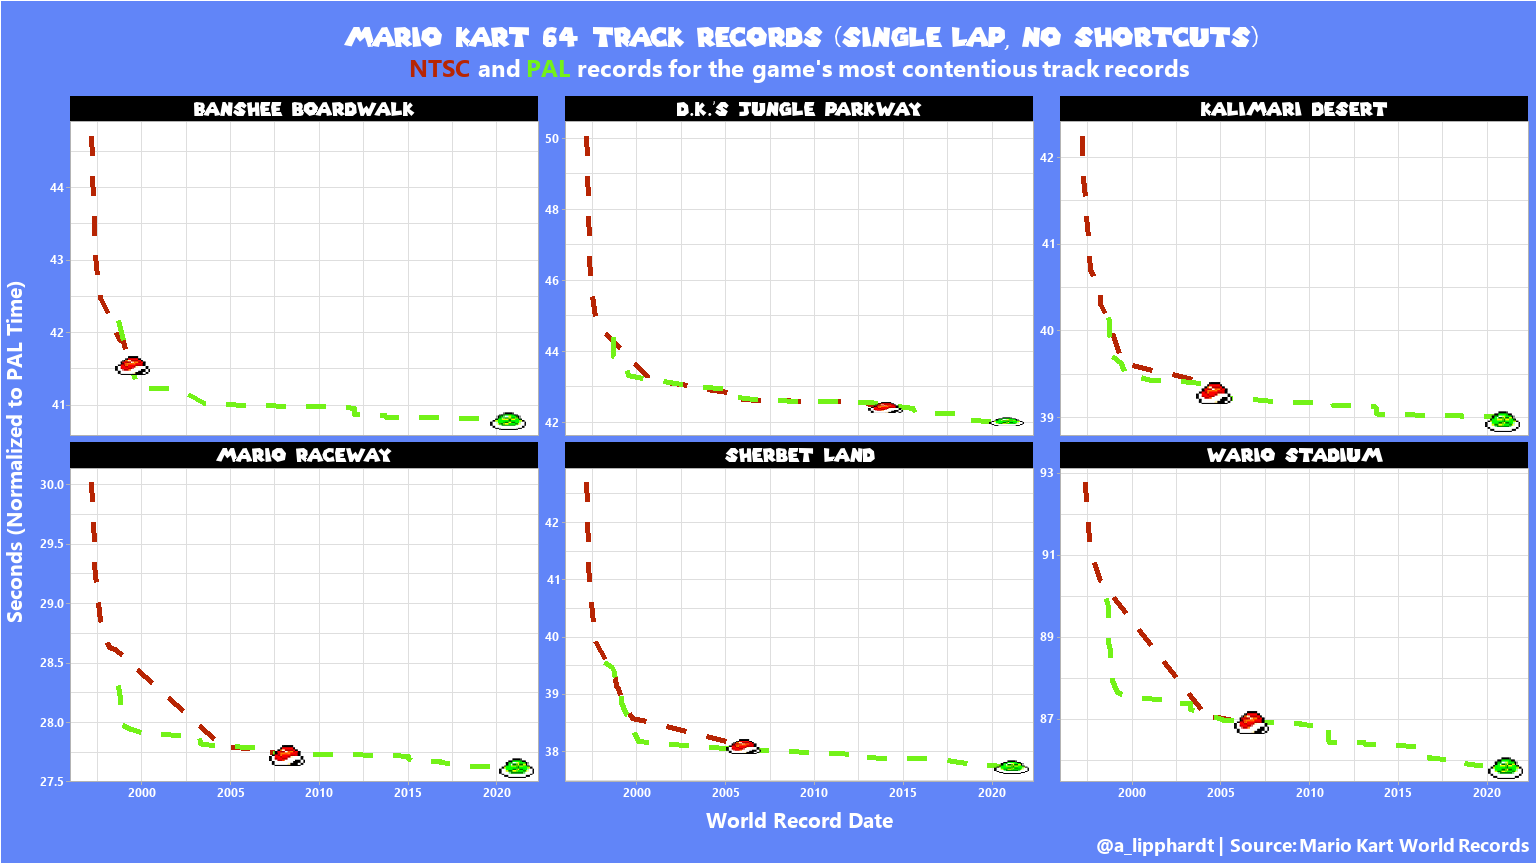
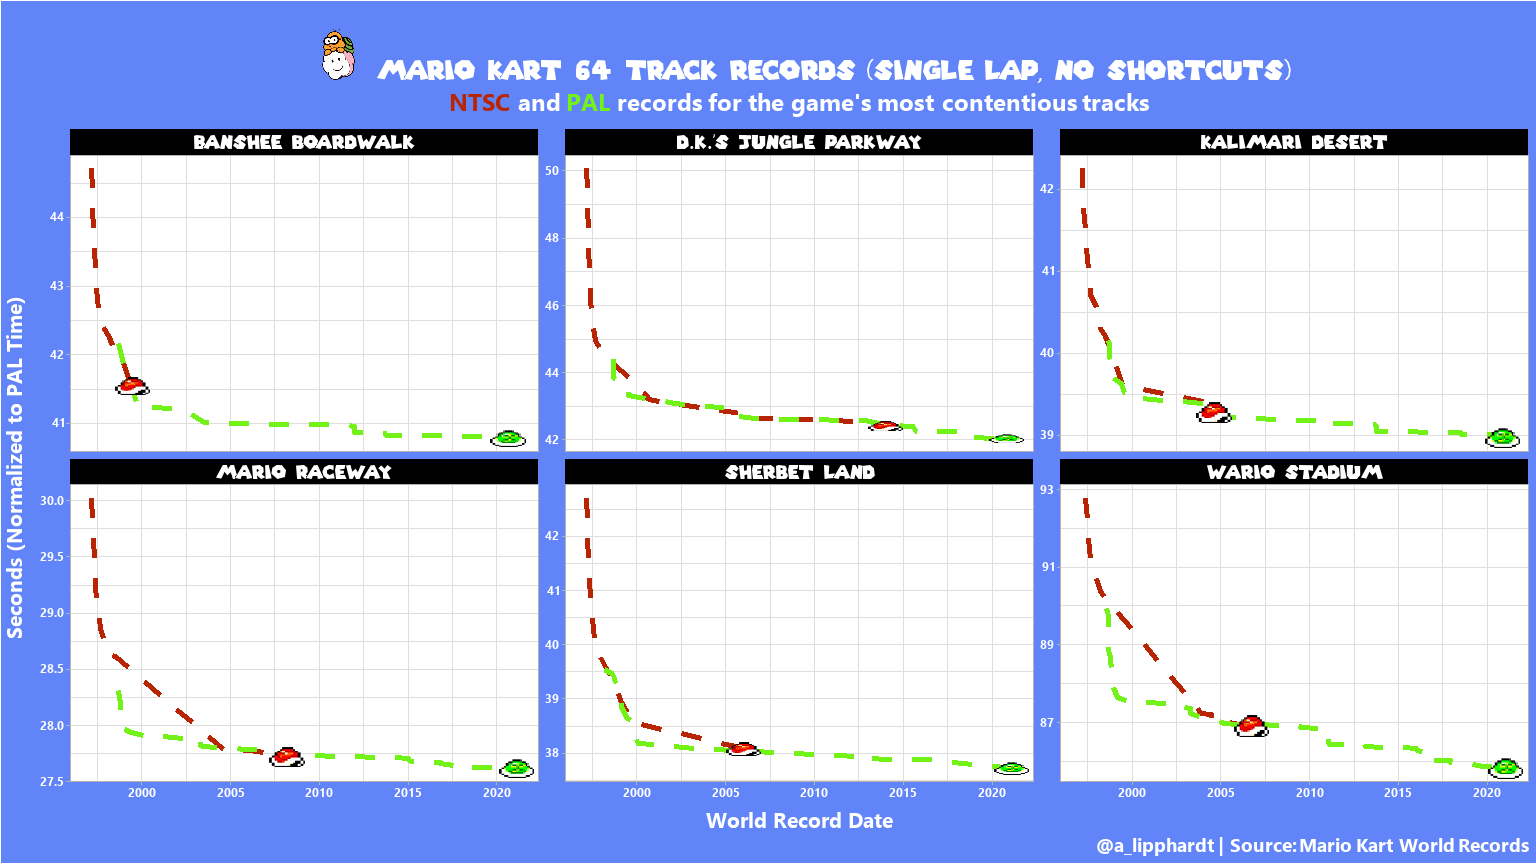
Added Lakitu

diff --git a/mario-kart-world-records/README.md b/mario-kart-world-records/README.md
@@ -175,8 +175,8 @@ mario_plot = select_records %>%
 
   scale_color_manual(values=c(burnt_red, lawn_green)) +
   
-  labs(title = "Mario Kart 64 Track Records (Single Lap, No Shortcuts)",
-       subtitle = glue::glue("<span style='color: {burnt_red};'>**NTSC**</span> and <span style='color: {lawn_green}'>**PAL**</span> records for the game's most contentious track records"),
+  labs(title = "<img src='lakitu.png' height='40'/>&nbsp;&nbsp;Mario Kart 64 Track Records (Single Lap, No Shortcuts)",
+       subtitle = glue::glue("<span style='color: {burnt_red};'>**NTSC**</span> and <span style='color: {lawn_green}'>**PAL**</span> records for the game's most contentious tracks"),
        x = "World Record Date",
        y = "Seconds (Normalized to PAL Time)",
        caption = "@a_lipphardt | Source: Mario Kart World Records") +
@@ -219,6 +219,7 @@ mario_plot = select_records %>%
         axis.text = element_textbox_simple(family = "segoeuibold",
                                            color = "white")) 
 
+
 plot = mario_plot
 
 # Add koopa shells to most recent track record for each track
@@ -257,6 +258,9 @@ for(selected_track in tracks){
 plot
 ```
 
+    ## Warning in png::readPNG(get_file(path), native = TRUE): libpng warning: iCCP:
+    ## known incorrect sRGB profile
+
 ![](README_files/figure-gfm/Visualize-1.png)<!-- -->
 
 # Saving Image(s)
@@ -274,3 +278,6 @@ ggsave(plot = plot,
   device = "png",
   dpi = 96)
 ```
+
+    ## Warning in png::readPNG(get_file(path), native = TRUE): libpng warning: iCCP:
+    ## known incorrect sRGB profile
